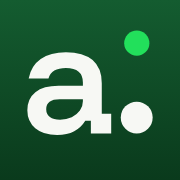
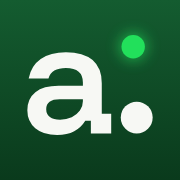
Site vitrine : retours de l'audit DA sur la charte
En-tête plus dense, capsules calées au-dessus de leur libellé et rangées
mieux séparées, colonnes de chiffres alignées, ombre des téléphones qui ne
se coupe plus au bas du rail, formulaire de réservation recomposé, « 1 »
sorti de l'italique, bouton secondaire opaque sur la lave en mobile. Image
de partage : lave en masses coupées par les bords, texte tenu sur le noir,
mot-clé Signal. Courriels : logotype dessiné en image, titre en Funnel
Display, filet qui part du Signal. Icône d'application au point à halo.
CLAUDE.md : charte, domaine déplacé, piège du cache Turbopack.

Claude-Session: https://claude.ai/code/session_01EoaZ2pTuA3RSQtSpbmEDjq

Changed region(s): [[0.6389, 0.1667, 0.8333, 0.3611]]

diff --git a/site/src/lib/og.tsx b/site/src/lib/og.tsx
@@ -11,11 +11,20 @@ import { LOGOTYPE } from "@/components/brand/logotype-paths";
  * la promesse en Funnel Display. Rendue une fois à la compilation ; les
  * polices sont lues depuis le dépôt (OFL), aucune requête réseau.
  */
+/** Satori espace mal les blancs insécables : une espace ordinaire partout. */
+function normalize(text: string): string {
+  return text.replace(/[\u00a0\u202f\u2060]/g, " ");
+}
+
+function words(text: string): string[] {
+  return normalize(text).split(" ").filter(Boolean);
+}
+
 async function font(file: string) {
   return readFile(join(process.cwd(), "src/assets/og", file));
 }
 
-export async function ogImage(options: { title: string; subtitle: string }) {
+export async function ogImage(options: { title: string; subtitle: string; keyword?: string }) {
   const [display, text, mono] = await Promise.all([font("FunnelDisplay-600.ttf"), font("Geist-400.ttf"), font("GeistMono-400.ttf")]);
   const [, , vw, vh] = LOGOTYPE.viewBox.split(" ").map(Number);
   const logoHeight = 40;
@@ -30,8 +39,10 @@ export async function ogImage(options: { title: string; subtitle: string }) {
           justifyContent: "space-between",
           padding: "68px 72px",
           backgroundColor: "#0B110C",
+          // La lave (r-05) : trois masses elliptiques coupées par les bords haut, droit et bas, cœur
+          // Signal, frange Menthe puis Rose avant de rejoindre le noir — jamais le rose sur #0B110C.
           backgroundImage:
-            "radial-gradient(circle at 104% 18%, #22E05B 0%, #22E05B 16%, rgba(226,243,218,0.9) 24%, rgba(247,168,216,0.55) 31%, rgba(11,17,12,0) 42%), radial-gradient(circle at 88% 118%, #4EE67C 0%, rgba(34,224,91,0.85) 14%, rgba(247,168,216,0.5) 24%, rgba(11,17,12,0) 36%)",
+            "radial-gradient(ellipse 30% 46% at 100% 22%, #22E05B 0%, #22E05B 52%, #7AEC9D 66%, rgba(226,243,218,0.75) 74%, rgba(247,168,216,0.45) 82%, rgba(11,17,12,0) 100%), radial-gradient(ellipse 26% 38% at 92% 104%, #1EC94F 0%, #22E05B 48%, #A7F3BD 64%, rgba(247,168,216,0.5) 76%, rgba(11,17,12,0) 92%), radial-gradient(ellipse 14% 20% at 80% 58%, rgba(34,224,91,0.9) 0%, rgba(122,236,157,0.6) 55%, rgba(11,17,12,0) 100%)",
           color: "#F7F8F4",
           fontFamily: "Geist",
         }}
@@ -40,9 +51,21 @@ export async function ogImage(options: { title: string; subtitle: string }) {
           <path d={LOGOTYPE.letters} fill="#F7F8F4" />
           <circle cx={LOGOTYPE.dot.cx} cy={LOGOTYPE.dot.cy} r={LOGOTYPE.dot.r} fill="#22E05B" />
         </svg>
-        <div style={{ display: "flex", flexDirection: "column", gap: 26, maxWidth: 860 }}>
-          <div style={{ fontFamily: "Funnel Display", fontSize: 66, lineHeight: 1.02, letterSpacing: "-2.3px" }}>{options.title}</div>
-          <div style={{ fontSize: 28, color: "#C7CCC4", lineHeight: 1.38 }}>{options.subtitle}</div>
+        <div style={{ display: "flex", flexDirection: "column", gap: 26, maxWidth: 700 }}>
+          <div style={{ display: "flex", flexWrap: "wrap", fontFamily: "Funnel Display", fontSize: 62, lineHeight: 1.04, letterSpacing: "-2.2px" }}>
+            {words(options.title).map((word, index) => {
+              // Le mot-clé passe en Signal, sa ponctuation reste en Craie.
+              const bare = word.replace(/[,.;:!?]+$/, "");
+              const tail = word.slice(bare.length);
+              return (
+                <span key={index} style={{ display: "flex", marginRight: "0.24em" }}>
+                  <span style={{ color: options.keyword && bare === options.keyword ? "#22E05B" : "#F7F8F4" }}>{bare}</span>
+                  {tail ? <span>{tail}</span> : null}
+                </span>
+              );
+            })}
+          </div>
+          <div style={{ fontSize: 26, color: "#C7CCC4", lineHeight: 1.4 }}>{normalize(options.subtitle)}</div>
         </div>
         <div style={{ display: "flex", alignItems: "center", gap: 12, fontFamily: "Geist Mono", fontSize: 18, letterSpacing: "1.6px", color: "#9BA198" }}>
           <div style={{ width: 10, height: 10, borderRadius: 999, backgroundColor: "#22E05B" }} />

diff --git a/site/src/components/site/sections.tsx b/site/src/components/site/sections.tsx
@@ -56,16 +56,18 @@ export function Services({ dict }: { dict: Dictionary }) {
       </div>
       <div className="container-site section-pad">
         <SectionHeading eyebrow={dict.services.eyebrow} index={1} title={dict.services.title} id="services-titre" />
-        <ul className="mt-14 grid grid-cols-1 gap-x-10 gap-y-14 sm:grid-cols-2 lg:grid-cols-3">
+        <ul className="mt-12 grid grid-cols-1 gap-x-10 gap-y-20 sm:grid-cols-2 md:gap-y-24 lg:grid-cols-3">
           {dict.services.items.map((item) => {
             const capsule = CAPSULES[item.icon];
             const asset = CAPSULE_ASSETS[capsule.asset];
             return (
               <li key={item.name} className="capsule-host flex flex-col">
-                <div className="flex h-60 items-center justify-center">
+                {/* La capsule coiffe son libellé, calée à gauche comme lui : à égale distance de deux
+                    rangées, elle se lisait comme celle du service d'en dessous. */}
+                <div className="-ml-6 flex h-48 items-center justify-start">
                   <Capsule src={asset.src} size={capsule.size} rotate={capsule.rotate} halo={asset.halo} />
                 </div>
-                <div className="reveal mt-6 border-t border-line pt-5">
+                <div className="reveal mt-2 border-t border-line pt-5">
                   <h3 className="type-h3 text-text">{item.name}</h3>
                   <p className="type-small mt-2 text-text-2">{item.text}</p>
                 </div>
@@ -108,18 +110,18 @@ export function Cases({ dict }: { dict: Dictionary }) {
         </div>
         <SectionHeading eyebrow={dict.cases.eyebrow} index={2} title={dict.cases.title} id="cas-titre" />
         {/* Le rail déborde du conteneur jusqu'aux bords de l'écran ; `body` est en `overflow-x: clip`. */}
-        <ul tabIndex={0} aria-labelledby="cas-titre" className="reveal bleed-x mt-12 flex snap-x snap-mandatory gap-4 overflow-x-auto pb-4">
+        <ul tabIndex={0} aria-labelledby="cas-titre" className="reveal bleed-x mt-12 flex snap-x snap-mandatory gap-4 overflow-x-auto pb-10">
           {rail.map((visual) => (
             <li key={visual.poster} className="w-[200px] shrink-0 snap-start md:w-[220px]">
               <PhoneCase poster={visual.poster} video={visual.video} alt={visual.alt} handle={visual.handle} />
             </li>
           ))}
         </ul>
-        <ul className="reveal mt-12 grid grid-cols-1 gap-8 sm:grid-cols-3">
+        <ul className="reveal mt-6 grid grid-cols-1 gap-8 sm:grid-cols-3">
           {dict.cases.items.map((item) => (
             <li key={item.id} className="border-t border-line-strong pt-5">
               <h3 className="type-h3 text-text">{item.client}</h3>
-              <p className="type-data mt-1.5 text-text-3">{item.sector}</p>
+              <p className="type-data mt-1.5 text-text-3 sm:min-h-[2.9em]">{item.sector}</p>
               <span className="type-stat mt-5 block text-text">{item.stat.value}</span>
               <span className="type-small mt-2 block text-text-2">{item.stat.label}</span>
               {item.stat.source && <span className="type-caption mt-1 block text-text-3">{item.stat.source}</span>}

diff --git a/site/src/lib/mail/templates.ts b/site/src/lib/mail/templates.ts
@@ -20,7 +20,9 @@ const GRAPHITE = "#5C5F58";
 const CHALK = "#F7F8F4";
 const SIGNAL = "#22E05B";
 const FOREST = "#0E4A26";
-const BAND = "linear-gradient(90deg,#0F6529,#189D40,#22E05B,#7AEC9D,#A7F3BD)";
+const BAND = "linear-gradient(90deg,#22E05B,#7AEC9D,#A7F3BD)";
+/** Le logotype dessiné, servi par le site : en texte, la police de repli du client l'élargissait et l'alourdissait. */
+const LOGO_URL = "https://antidotes.agency/brand/logo-encre@2x.png";
 const SIGNATURE_FR = "Alessandro Di Giovanni\nFreelance social media & IA — Antidotes\nhttps://antidotes.agency";
 const SIGNATURE_EN = "Alessandro Di Giovanni\nFreelance social media & AI — Antidotes\nhttps://antidotes.agency";
 
@@ -37,8 +39,8 @@ function layout(options: { title: string; paragraphs: string[]; cta?: { label: s
 <table role="presentation" width="100%" cellspacing="0" cellpadding="0" style="background:${CHALK};padding:32px 16px"><tr><td align="center">
 <table role="presentation" width="100%" cellspacing="0" cellpadding="0" style="max-width:560px;background:#ffffff;border-radius:20px;overflow:hidden">
 <tr><td height="4" bgcolor="${SIGNAL}" style="height:4px;line-height:4px;font-size:0;background-color:${SIGNAL};background-image:${BAND}">&nbsp;</td></tr>
-<tr><td style="padding:34px 36px 8px"><div style="font-family:'Funnel Display',-apple-system,BlinkMacSystemFont,'Segoe UI',Helvetica,Arial,sans-serif;font-size:24px;line-height:1;letter-spacing:-0.04em;font-weight:700;color:${INK}">antidotes.</div>
-<h1 style="margin:14px 0 20px;font-size:24px;line-height:1.25;color:${INK};font-weight:600">${escapeHtml(options.title)}</h1>${body}${cta}</td></tr>
+<tr><td style="padding:34px 36px 8px"><img src="${LOGO_URL}" width="133" height="21" alt="antidotes." style="display:block;border:0;outline:none;height:21px;width:133px;font-family:-apple-system,BlinkMacSystemFont,'Segoe UI',Helvetica,Arial,sans-serif;font-size:20px;font-weight:700;letter-spacing:-0.03em;color:${INK}">
+<h1 style="margin:20px 0 20px;font-family:'Funnel Display',-apple-system,BlinkMacSystemFont,'Segoe UI',Helvetica,Arial,sans-serif;font-size:26px;line-height:1.2;letter-spacing:-0.02em;color:${INK};font-weight:600">${escapeHtml(options.title)}</h1>${body}${cta}</td></tr>
 <tr><td style="padding:8px 36px 32px;font-size:13px;line-height:1.5;color:${GRAPHITE};white-space:pre-line">${escapeHtml(options.footer)}</td></tr>
 </table></td></tr></table></body></html>`;
 }

diff --git a/site/src/app/globals.css b/site/src/app/globals.css
@@ -205,7 +205,7 @@
 /* La barre d'en-tête : le même verre, plus dense — elle passe sur du texte
    à chaque défilement, et un flou de 6 px le laissait lisible dessous. */
 @utility glass-bar {
-  background: color-mix(in srgb, var(--bg) 90%, transparent);
+  background: color-mix(in srgb, var(--bg) 94%, transparent);
   box-shadow: inset 0 -1px 0 var(--line), inset 0 1px 0 rgb(255 255 255 / 0.35);
   backdrop-filter: blur(18px) saturate(1.8);
   -webkit-backdrop-filter: blur(18px) saturate(1.8);
@@ -358,7 +358,7 @@
   border-radius: 14% / 6.6%;
   padding: 2.6%;
   background: linear-gradient(160deg, #3a3d38, #141414 45%, #0b0c0b);
-  box-shadow: 0 1px 0 rgb(255 255 255 / 0.18) inset, 0 0 0 1px rgb(20 20 20 / 0.5), 0 40px 70px -36px rgb(20 20 20 / 0.55);
+  box-shadow: 0 1px 0 rgb(255 255 255 / 0.18) inset, 0 0 0 1px rgb(20 20 20 / 0.5), 0 26px 36px -30px rgb(20 20 20 / 0.5);
 }
 .phone-screen {
   position: relative;

diff --git a/site/src/components/site/hero.tsx b/site/src/components/site/hero.tsx
@@ -31,7 +31,7 @@ export function Hero({ dict }: { dict: Dictionary }) {
             <a href="#note" className="type-body inline-flex items-center justify-center rounded-pill bg-btn px-6.5 py-3.5 font-semibold text-btn-text transition-colors duration-(--motion) hover:bg-btn-hover">
               {dict.hero.ctaPrimary}
             </a>
-            <a href="#cas" className="glass type-body inline-flex items-center justify-center rounded-pill px-6.5 py-3.5 font-medium text-text transition-[filter] duration-(--motion) hover:brightness-125">
+            <a href="#cas" className="glass type-body inline-flex items-center justify-center rounded-pill px-6.5 py-3.5 font-medium text-text transition-[filter] duration-(--motion) hover:brightness-125 max-md:bg-surface max-md:shadow-[inset_0_0_0_1px_var(--line-strong)]">
               {dict.hero.ctaSecondary}
             </a>
           </div>

diff --git a/site/src/app/(fr)/cgu/page.tsx b/site/src/app/(fr)/cgu/page.tsx
@@ -17,7 +17,7 @@ export default function CguPage() {
     <LegalPage title="Conditions générales d'utilisation" other={{ href: "/confidentialite", label: "Politique de confidentialité →" }} home="/" updatedLabel="Dernière mise à jour :" updated={CGU_MAJ}>
       <LegalSection title="Éditeur">
         <p>
-          Directeur de la publication : {LEGAL_ENTITY.responsable}. Contact : <LegalLink href={`mailto:${LEGAL_ENTITY.email}`}>{LEGAL_ENTITY.email}</LegalLink>.
+          Directeur de la publication : {LEGAL_ENTITY.responsable}. Contact : <LegalLink href={`mailto:${LEGAL_ENTITY.email}`}>{LEGAL_ENTITY.email}</LegalLink>.
         </p>
         {identite.length > 0 ? <p>{identite.join(" · ")}</p> : null}
         <p>Hébergement : {HEBERGEURS.map((h) => h.nom).join(", ")}</p>

diff --git a/site/src/lib/mail/templates.test.ts b/site/src/lib/mail/templates.test.ts
@@ -98,7 +98,8 @@ describe("layout", () => {
   it("porte la palette verte : filet vert avec repli plein, liens en forêt, plus aucune teinte irisée", () => {
     const html = bookingConfirmation("fr", booking).html + leadWelcome("en", { firstName: "Ana", continueUrl: "https://antidotes.agency" }).html;
     expect(html).toContain('bgcolor="#22E05B"');
-    expect(html).toContain("#0F6529");
+    expect(html).toContain("linear-gradient(90deg,#22E05B");
+    expect(html).toContain('src="https://antidotes.agency/brand/logo-encre@2x.png"');
     expect(html).not.toMatch(/7fd9ff|8d7bff|ff6fae|ffb866/i);
     expect(html).not.toMatch(/<a href="[^"]*">/);
     expect(html).toContain('<a style="color:#0E4A26;text-decoration:underline" href="https://antidotes.agency/rdv/tok"');

diff --git a/site/src/app/(fr)/opengraph-image.tsx b/site/src/app/(fr)/opengraph-image.tsx
@@ -5,5 +5,5 @@ export const size = { width: 1200, height: 630 };
 export const contentType = "image/png";
 
 export default async function Image() {
-  return ogImage({ title: "Vos réseaux sociaux méritent un antidote, pas une énième agence.", subtitle: "Stratégie, contenus, publicité et reporting, pilotés par un expert freelance avec des outils maison et l'IA." });
+  return ogImage({ keyword: "antidote", title: "Vos réseaux sociaux méritent un antidote, pas une énième agence.", subtitle: "Stratégie, contenus, publicité et reporting, pilotés par un expert freelance avec des outils maison et l'IA." });
 }

diff --git a/site/src/app/en/opengraph-image.tsx b/site/src/app/en/opengraph-image.tsx
@@ -5,5 +5,5 @@ export const size = { width: 1200, height: 630 };
 export const contentType = "image/png";
 
 export default async function Image() {
-  return ogImage({ title: "Your social media deserves an antidote, not another agency.", subtitle: "Strategy, content, ads and reporting, run by a senior freelancer with in-house tools and AI." });
+  return ogImage({ keyword: "antidote", title: "Your social media deserves an antidote, not another agency.", subtitle: "Strategy, content, ads and reporting, run by a senior freelancer with in-house tools and AI." });
 }

diff --git a/site/src/i18n/fr.ts b/site/src/i18n/fr.ts
@@ -87,7 +87,7 @@ export const fr: Dictionary = {
   },
   funnel: {
     eyebrow: "Offert",
-    title: "Votre note de présence *social media*, _de 1 à 10._",
+    title: "Votre *note* de _présence social media_, de 1 à 10.",
     lead: "La note se calcule tout de suite. Je vous la présente en rendez-vous, avec les trois leviers qui la feraient monter.",
     bullets: ["Calculée sur vos réponses", "Expliquée en visio, en 30 minutes", "Sans engagement"],
     start: "Commencer",

diff --git a/site/src/components/funnel/booking.tsx b/site/src/components/funnel/booking.tsx
@@ -257,7 +257,7 @@ export function Booking({ dict, locale, leadId, prefill, onConfirmed }: Props) {
             </p>
           </div>
           <div className="grid grid-cols-1 gap-4 sm:grid-cols-2">
-            <div className="flex flex-col gap-1.5">
+            <div className="flex flex-col gap-1.5 sm:col-span-2">
               <label htmlFor={`${ids.form}-name`} className={LABEL}>
                 {dict.form.name}
               </label>

diff --git a/site/src/i18n/en.ts b/site/src/i18n/en.ts
@@ -87,7 +87,7 @@ export const en: Dictionary = {
   },
   funnel: {
     eyebrow: "Free",
-    title: "Your *social media* score, _from 1 to 10._",
+    title: "Your _social media_ *score*, from 1 to 10.",
     lead: "The score is calculated right away. I present it to you on a call, with the three levers that would move it up.",
     bullets: ["Based on your answers", "Explained on a 30-minute video call", "No commitment"],
     start: "Start",
